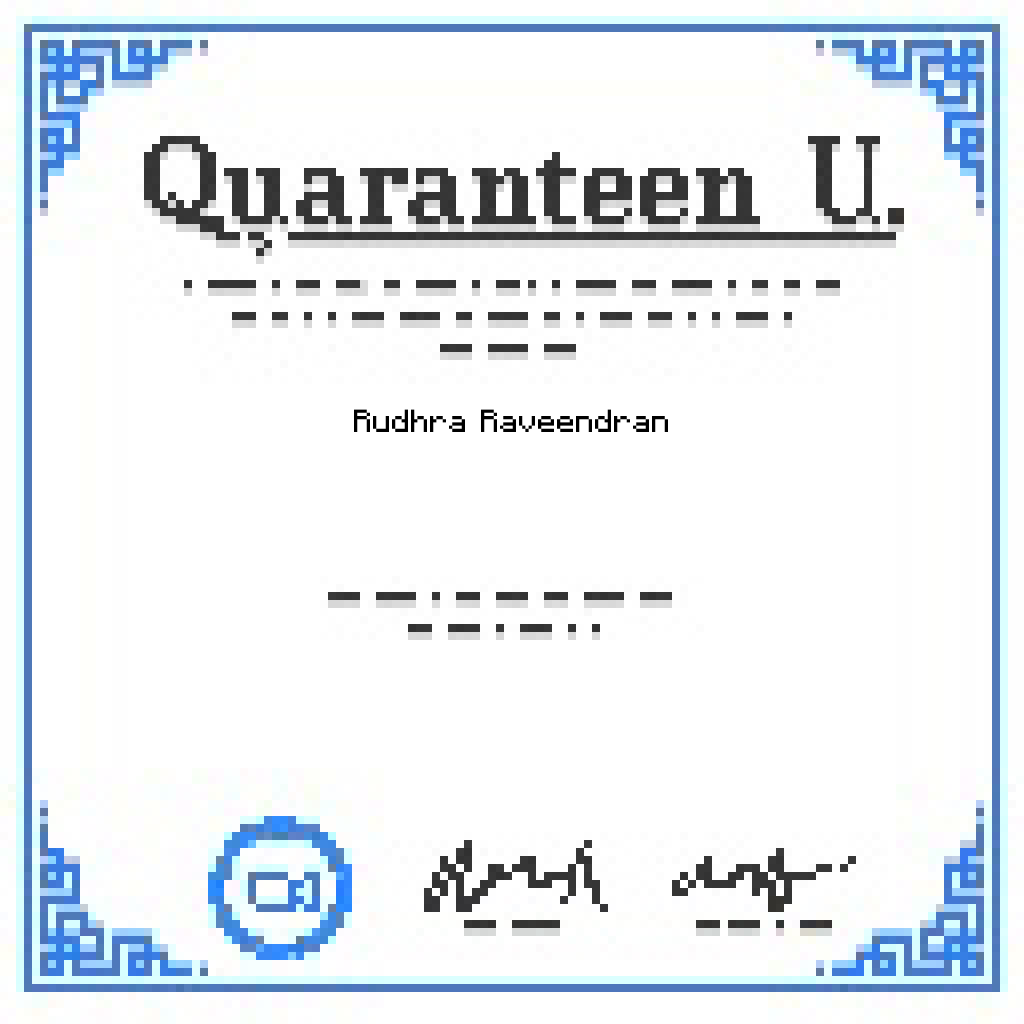
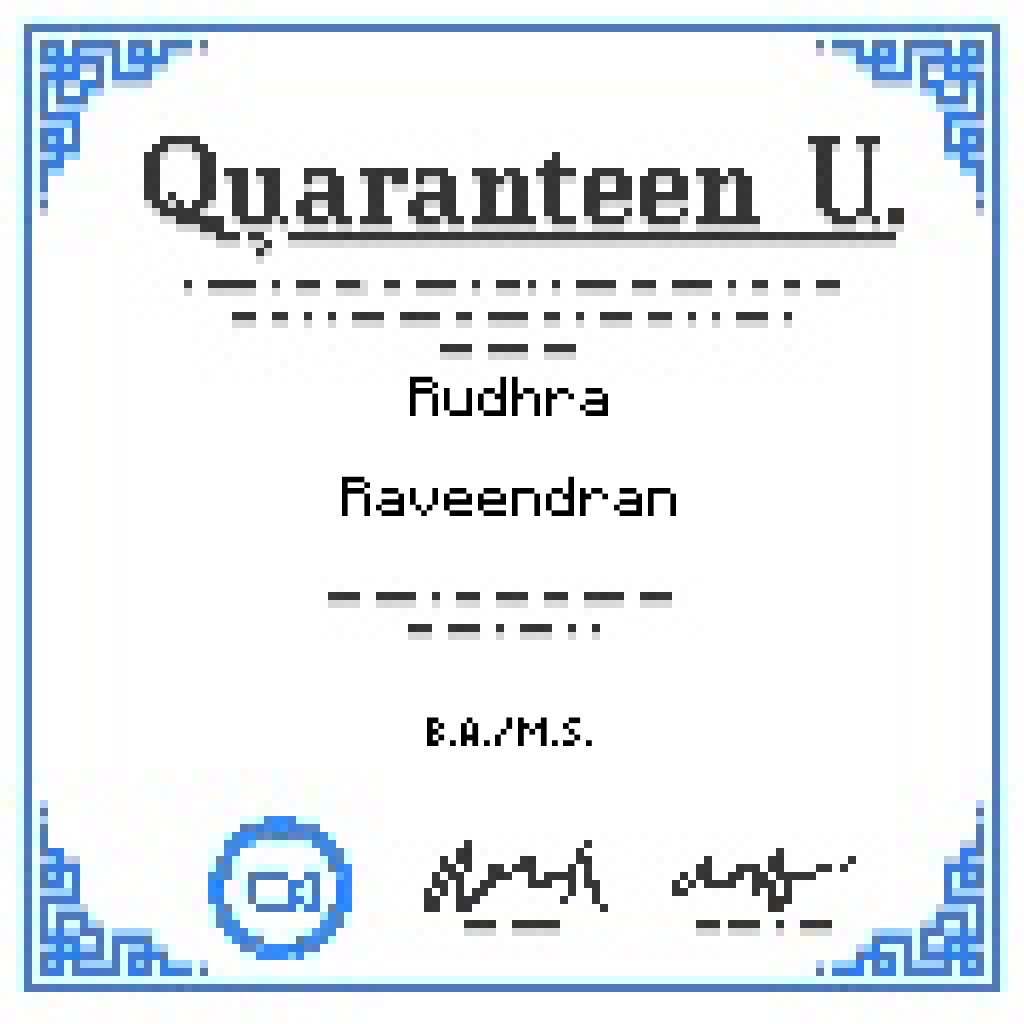
getting closer to it

Changed region(s): [[0.3438, 0.3438, 0.6562, 0.4375], [0.3125, 0.4688, 0.6562, 0.5], [0.4062, 0.6875, 0.5625, 0.75]]

diff --git a/sendDiplomas.js b/sendDiplomas.js
@@ -1,0 +1,218 @@
+require("dotenv").config();
+const execSync = require("child_process").execSync;
+const fs = require("fs");
+const csv = require("csv-parser");
+const fetch = require("node-fetch");
+const Jimp = require("jimp");
+const sgMail = require("@sendgrid/mail");
+const sgClient = require("@sendgrid/client");
+sgMail.setApiKey(process.env.SENDGRID_API_KEY);
+sgClient.setApiKey(process.env.SENDGRID_API_KEY);
+
+const abbreviateDegree = (degree) => {
+  const words = degree.split(" ");
+  return words
+    .filter((w) => w[0] === w[0].toUpperCase())
+    .map((w) => {
+      if (w === "/") return w;
+      return `${w[0]}.`;
+    })
+    .join("");
+};
+
+const splitIntoLines = (original) => {
+  const nameParts = original.split(" ");
+  if (nameParts.length < 2) {
+      return [original];
+  }
+
+  const partLength = nameParts.map(p => p.length)
+  const totalLength = original.length;
+  let len1 = totalLength, len2 = 0, split = nameParts.length - 1;
+
+  for (let i = nameParts.length - 1; i >= 0; i--) {
+      if (Math.abs((len1 - partLength[i]) - (len2 + partLength[i])) > Math.abs(len1 - len2)) {
+          break;
+      } else {
+          len1 -= partLength[i];
+          len2 += partLength[i];
+          split--;
+      }
+  }
+
+  const toReturn = ["", ""];
+  for (let i = 0; i < nameParts.length; i++) {
+      if (i <= split) {
+          toReturn[0] += nameParts[i] + (i == split ? "" : " ");
+      } else {
+          toReturn[1] += nameParts[i] + (i + 1 == nameParts.length ? "" : " ");
+      }
+  }
+
+  return toReturn;
+}
+
+const contacts = [];
+fs.createReadStream("testdata.csv")
+  .pipe(csv())
+  .on("data", (data) => contacts.push(data))
+  .on("end", async () => {
+    const PRUNE = false;
+    let uniqueContacts;
+    if (PRUNE) {
+      console.log("=> Pruning contacts");
+      console.log("original contacts", contacts.length);
+      const uniqueEmails = new Set(contacts.map((c) => c["Email Address"]));
+      uniqueContacts = Array.from(uniqueEmails).map((email) =>
+        contacts.find((c) => c["Email Address"] === email)
+      );
+      console.log("unique contacts", uniqueContacts.length);
+
+      let [response, bounces] = await sgClient.request({
+        method: "GET",
+        url: "/v3/suppression/bounces",
+      });
+      bounces = bounces.map((c) => c.email);
+      uniqueContacts = uniqueContacts.filter(
+        (c) => !bounces.includes(c["Email Address"])
+      );
+      console.log("remove bounces", uniqueContacts.length);
+
+      let [response2, unsubs] = await sgClient.request({
+        method: "GET",
+        url: "/v3/suppression/unsubscribes",
+      });
+      unsubs = unsubs.map((c) => c.email);
+      uniqueContacts = uniqueContacts.filter(
+        (c) => !unsubs.includes(c["Email Address"])
+      );
+      console.log("remove unsubs", uniqueContacts.length);
+    } else {
+      uniqueContacts = contacts;
+    }
+
+    const wedointhis = true;
+    if (wedointhis) {
+      uniqueContacts.forEach(async (contact) => {
+        const emailData = {
+          firstName: contact["Your Full Name"].split(" ")[0],
+        };
+
+        const name = contact["Your Full Name"];
+        const nameLines = splitIntoLines(name);
+        const degree = contact["Your Degree"];
+        const shortDegree =
+          degree.length > 35 ? abbreviateDegree(degree) : degree;
+        const major = contact["Your Major(s)"];
+
+        console.log(`=> Generating diploma for ${name}`);
+        process.chdir("latex");
+        /*const code = execSync(
+          `miktex-lualatex "\\def\\QUDiplomaName{${name}} \\def\\QUDegreeType{${degree}} \\def\\QUMajor{${major}} \\input{main}"`
+        );*/
+
+        let loadedImage, largeFont, smallFont;
+        await Jimp.read("diploma_bg_QU.png")
+          .then((image) => {
+            loadedImage = image;
+            return Jimp.loadFont("fonts/Minecraft Regular 56.fnt");
+          })
+          .then((font) => {
+            largeFont = font;
+            return Jimp.loadFont("fonts/Minecraft Tiny 40.fnt");
+          })
+          .then((font) => {
+            smallFont = font;
+            loadedImage
+              .print(
+                largeFont,
+                0,
+                360,
+                {
+                  text: nameLines[0],
+                  alignmentX: Jimp.HORIZONTAL_ALIGN_CENTER,
+                },
+                1024,
+                1024
+              )
+              .print(
+                largeFont,
+                0,
+                460,
+                {
+                  text: nameLines[1],
+                  alignmentX: Jimp.HORIZONTAL_ALIGN_CENTER,
+                },
+                1024,
+                1024
+              )
+              .print(
+                smallFont,
+                0,
+                700,
+                {
+                  text: shortDegree,
+                  alignmentX: Jimp.HORIZONTAL_ALIGN_CENTER,
+                },
+                1024,
+                1024
+              )
+              .write("minecraft.png");
+          })
+          .catch((err) => {
+            console.error(err);
+          });
+        process.chdir("../");
+
+        console.log("converting diploma to base64");
+        const normalDiplomaData = fs.readFileSync("latex/main.pdf", {
+          encoding: "base64",
+        });
+        const minecraftDiplomaData = fs.readFileSync("latex/minecraft.png", {
+          encoding: "base64",
+        });
+
+        const msg = {
+          to: contact["Email Address"],
+          from: "Rudy from QU <rooday@bu.edu>",
+          replyTo: "Quaranteen University <admissions@quaranteen.university>",
+          templateId: "d-b6038557df6e4c0c80dcc6c422c7d640",
+          dynamic_template_data: emailData,
+          asm: {
+            group_id: 13368,
+          },
+          attachments: [
+            {
+              content: normalDiplomaData,
+              filename: "QU-Diploma.pdf",
+              type: "application/pdf",
+              disposition: "attachment",
+              contentId: "normalDiploma",
+            },
+            {
+              content: minecraftDiplomaData,
+              filename: "QU-Minecraft-Diploma.png",
+              type: "image/png",
+              disposition: "attachment",
+              contentId: "minecraftDiploma",
+            },
+          ],
+        };
+
+        /*sgMail
+          .send(msg)
+          .then((res) => {
+            console.log(`${contact["Email Address"]}: Success!`);
+          })
+          .catch((error) => {
+            console.error(`${contact["Email Address"]}: Failure!`, error);
+
+            if (error.response) {
+              console.error(error.response.body);
+            }
+          });*/
+      });
+    } else {
+      console.log("Flag set to false!");
+    }
+  });

diff --git a/README.md b/README.md
@@ -1,3 +1,10 @@
 # mailer
 
 Tool to send out our mailing blasts
+
+## todo
+- clean up files
+- add attribution for fonts
+
+
+The FontStruction “Pixel 5x3” (https://fontstruct.com/fontstructions/show/1618858) by “txigreman” is licensed under a Creative Commons Attribution Share Alike license (http://creativecommons.org/licenses/by-sa/3.0/).
